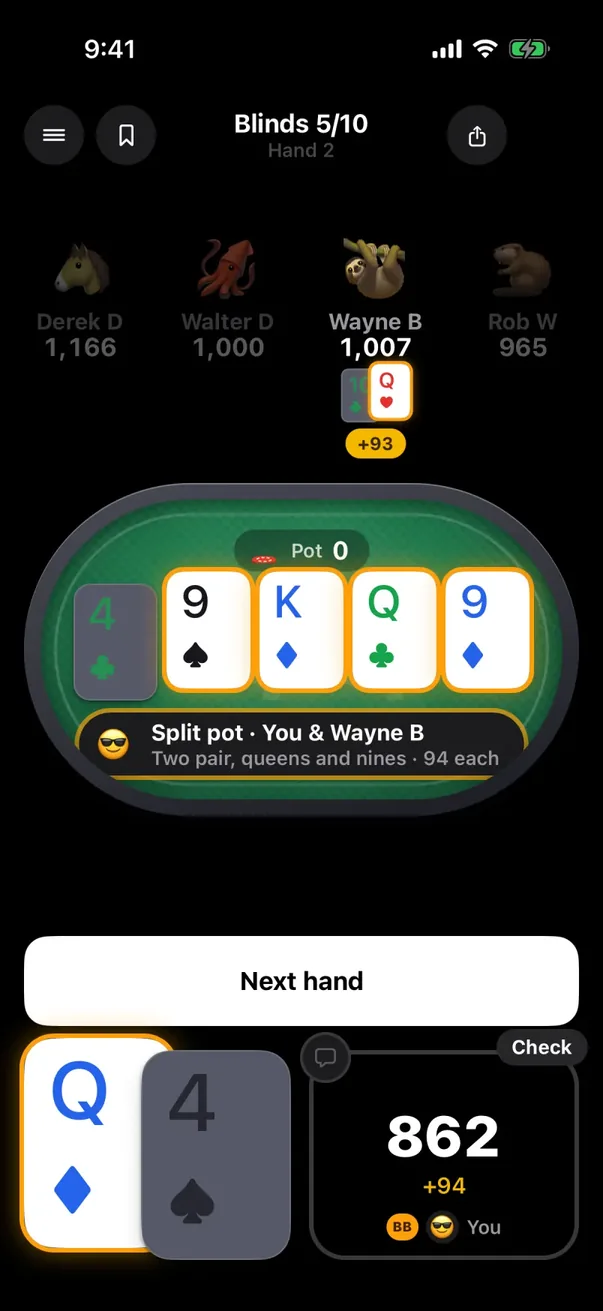
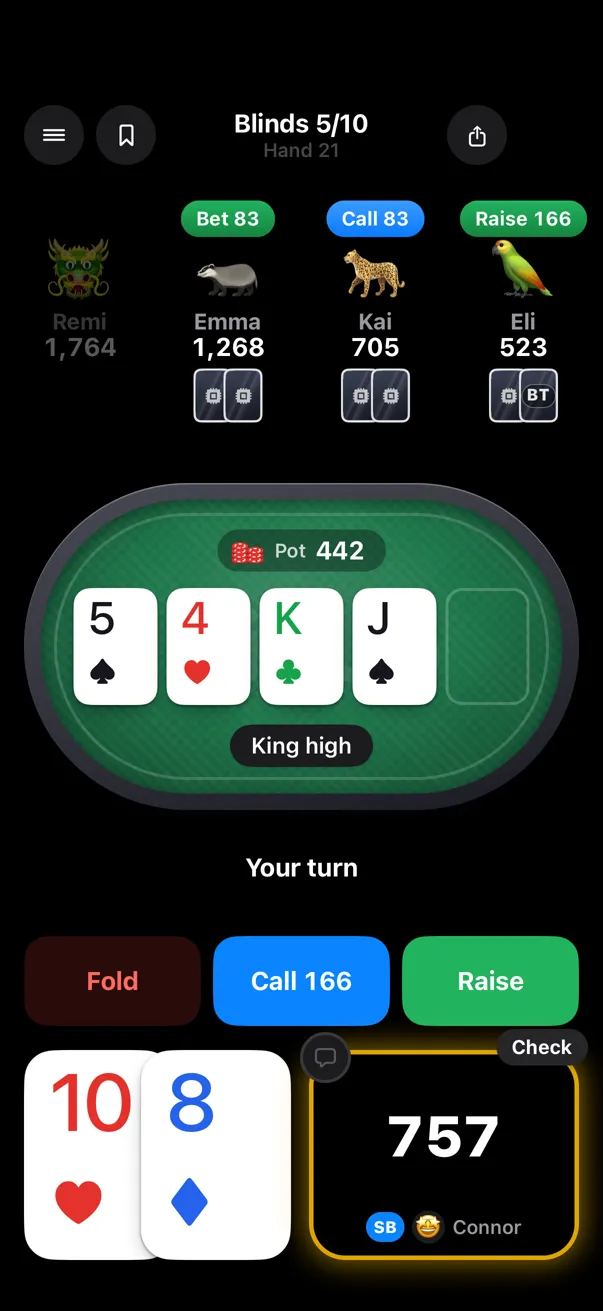
Website: the owner's Hold'em screenshot for the hero and the Hold'em card
Claude-Session: https://claude.ai/code/session_01Tm6LJGfChZ7F3pTS9Frejk

diff --git a/index.html b/index.html
@@ -43,7 +43,7 @@
           <p class="lead">No-limit Texas Hold'em and twelve strange mini games, played for play chips. Friends join with a six-letter code, and bots fill the empty seats.</p>
           <div id="get"></div>
         </div>
-        <figure class="phone hero-phone"><img src="/shots/holdem.webp" alt="A Texas Hold'em table in FlipUp: a split pot, two pair, queens and nines." width="603" height="1311" fetchpriority="high" /></figure>
+        <figure class="phone hero-phone"><img src="/shots/holdem.webp" alt="A Texas Hold'em table in FlipUp: your turn on the turn, ten and eight against a raise." width="603" height="1311" fetchpriority="high" /></figure>
       </section>
 
       <section class="games" aria-labelledby="games-title">
